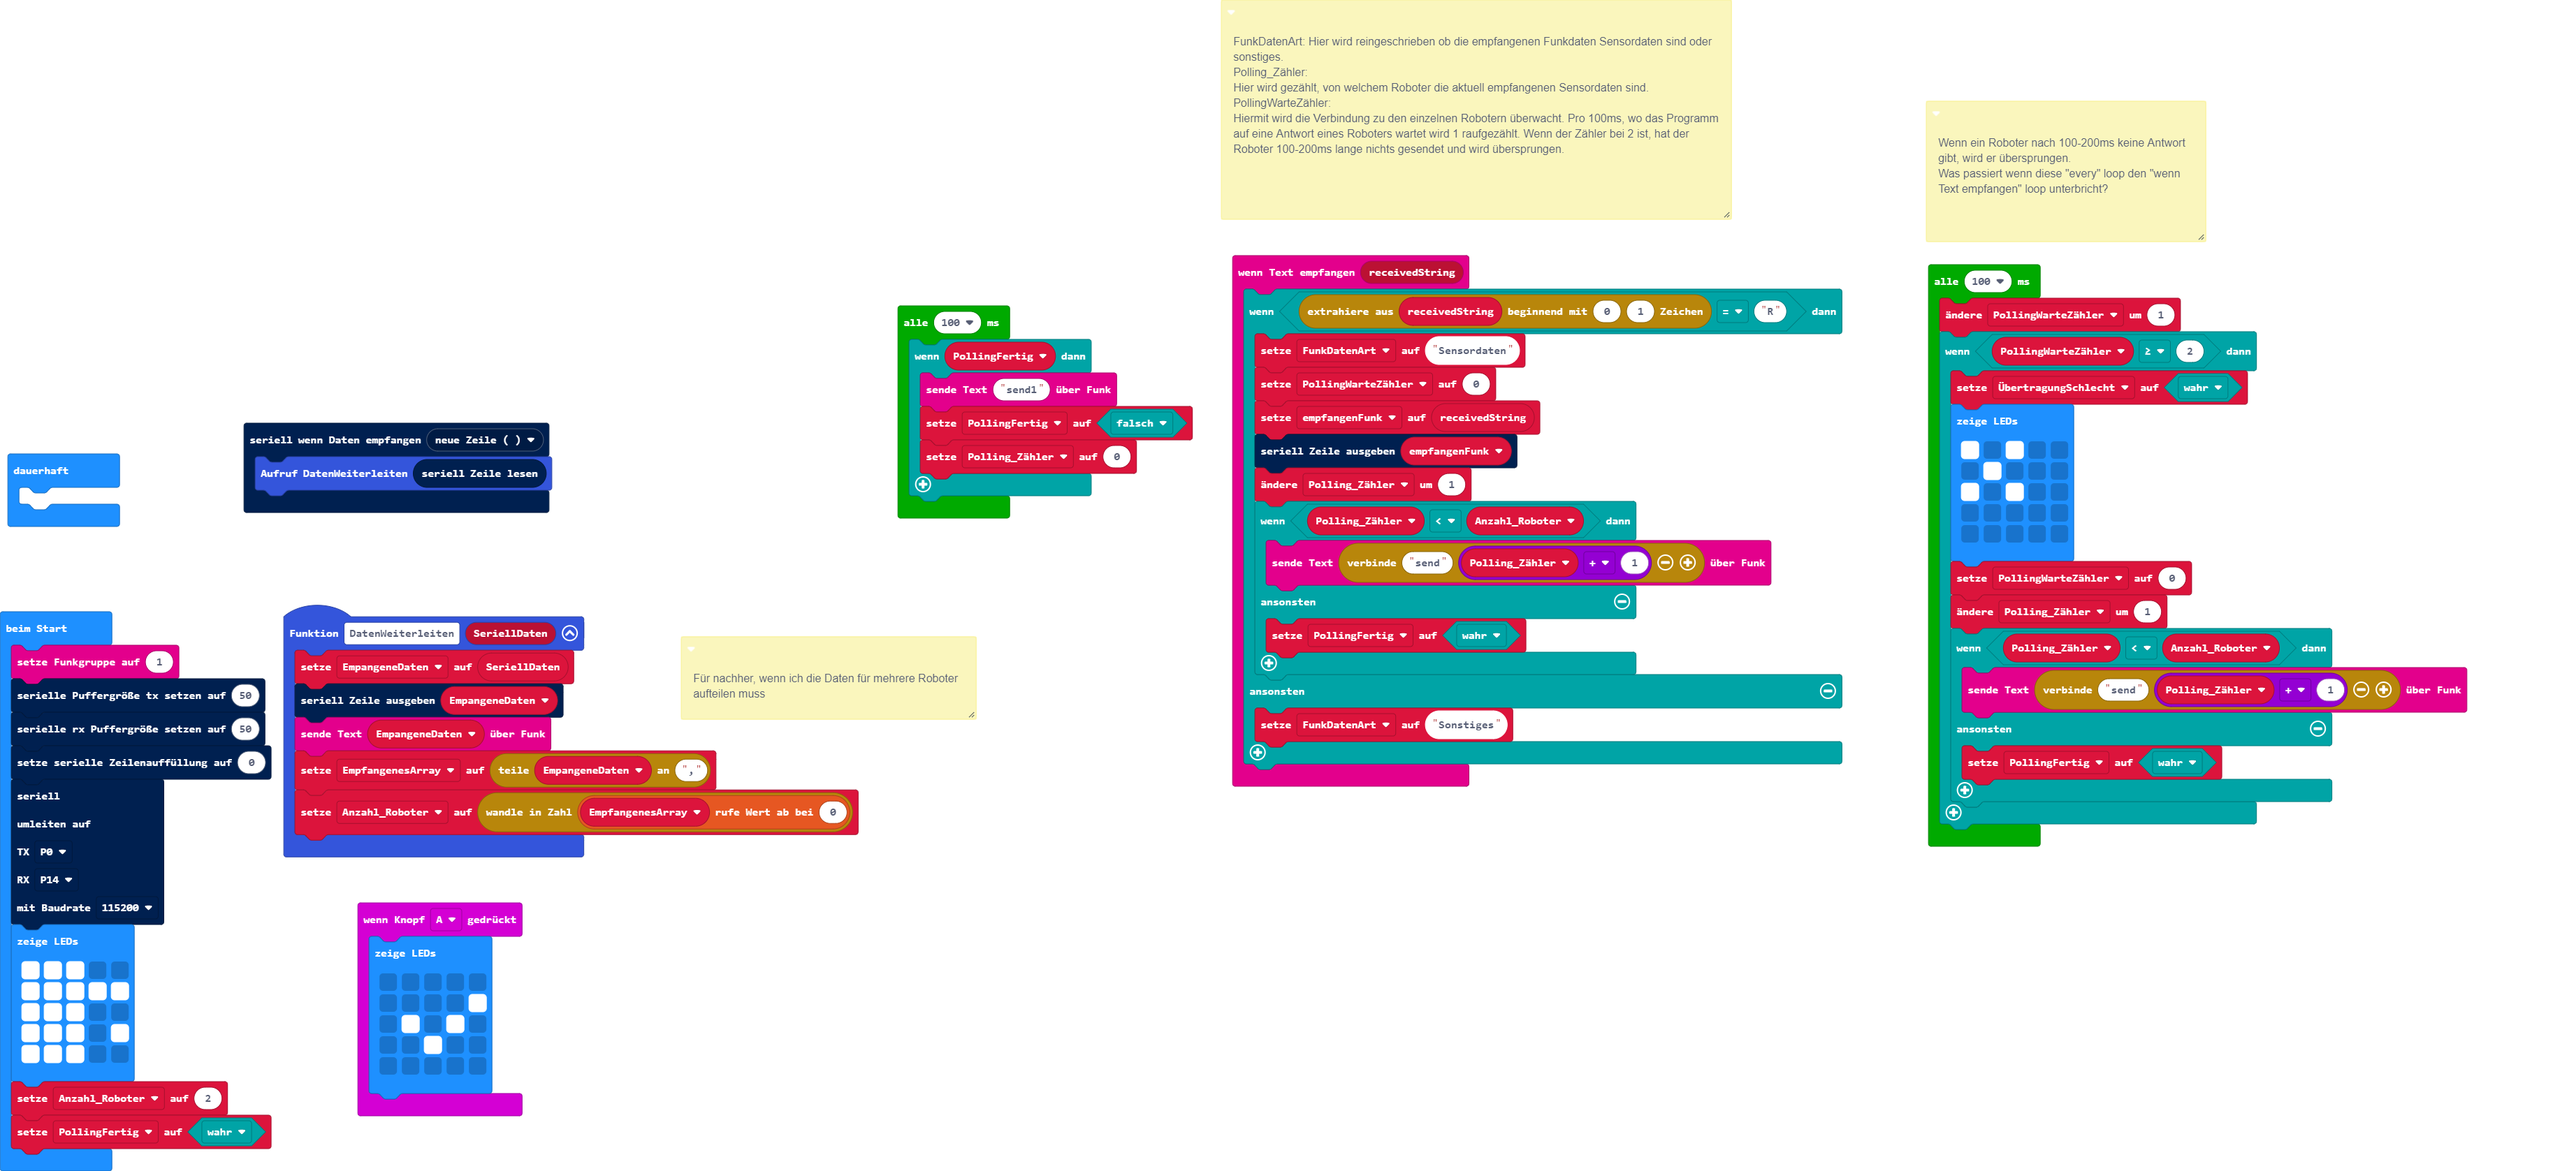
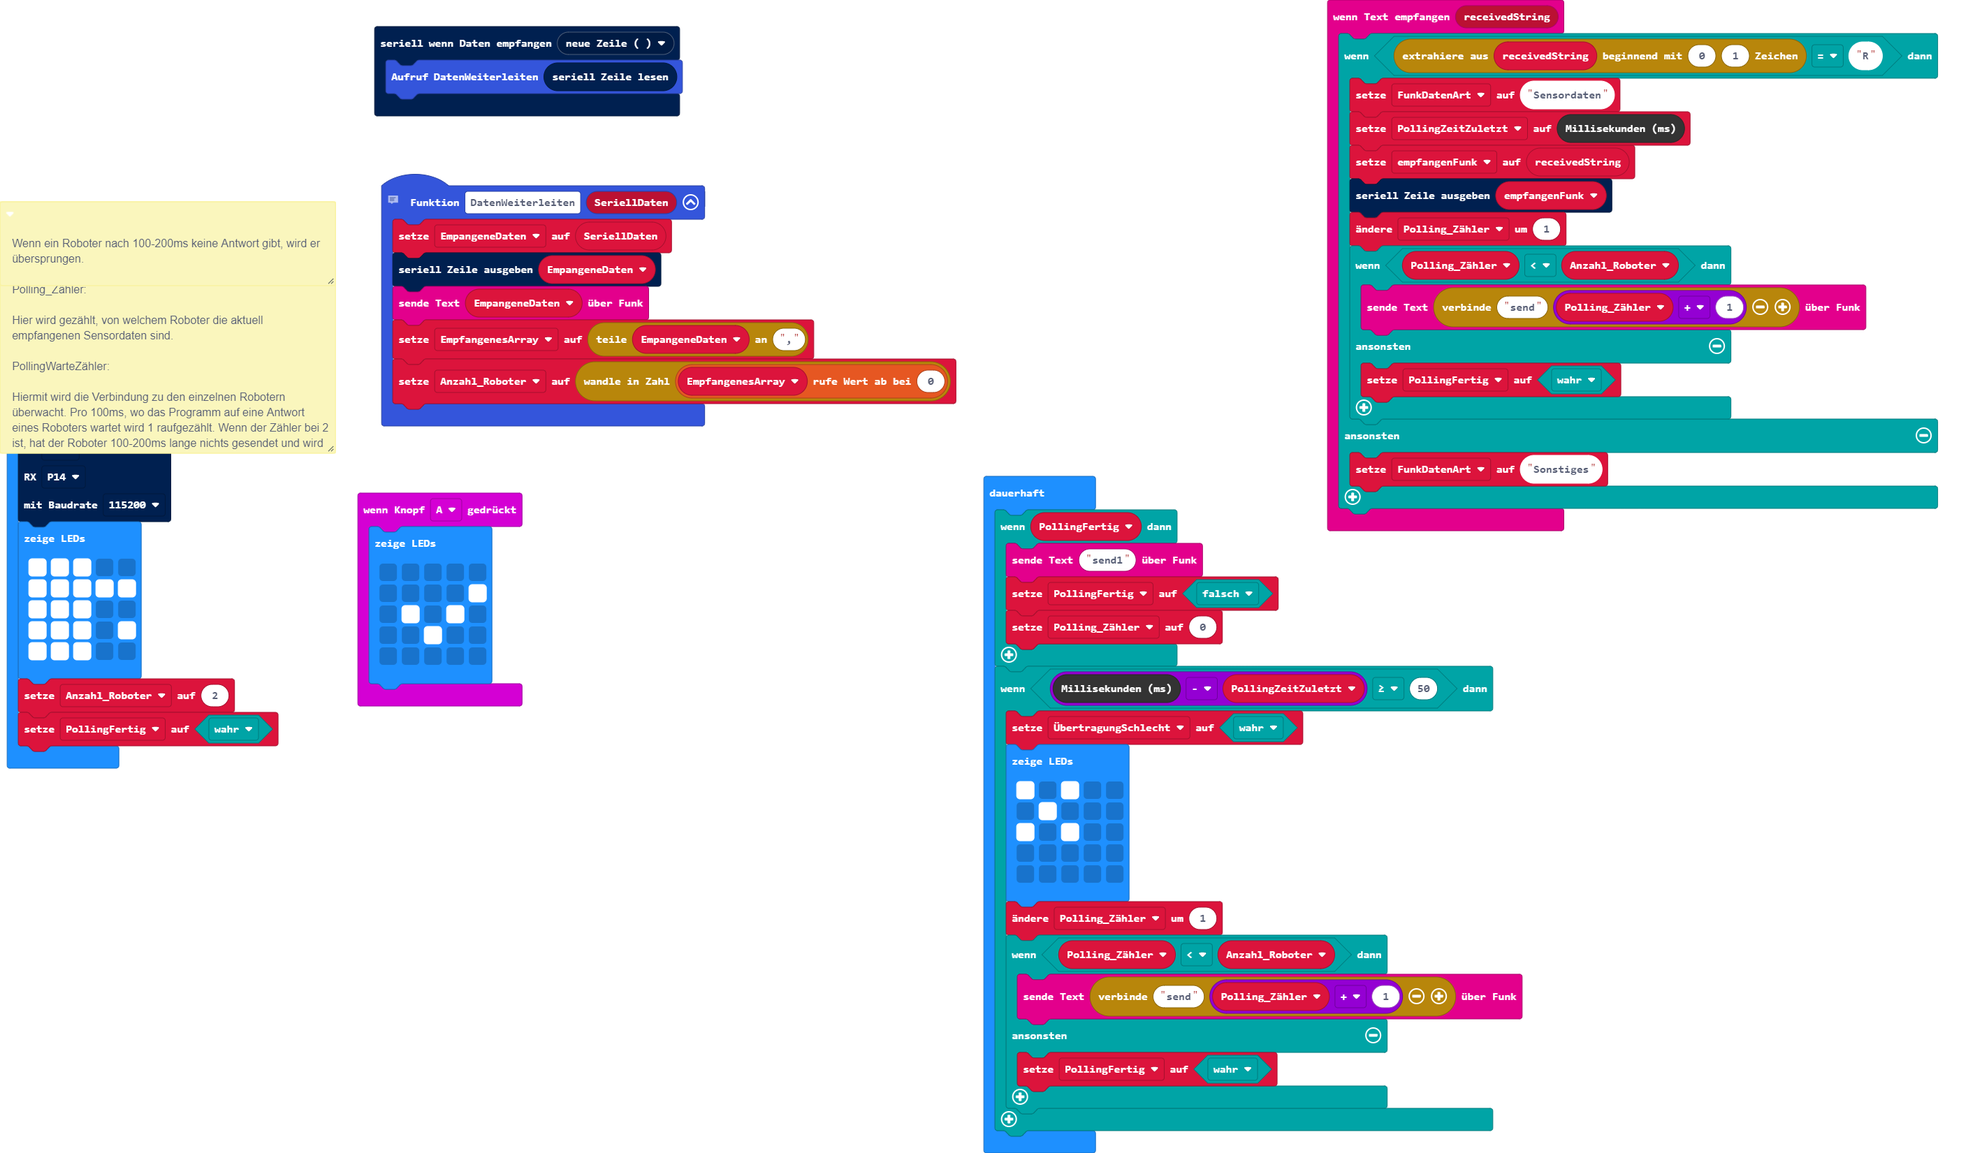
Aktualisiere pxt.json, main.blocks, main.ts

diff --git a/main.ts b/main.ts
@@ -1,22 +1,4 @@
-/**
- * FunkDatenArt: Hier wird reingeschrieben ob die empfangenen Funkdaten Sensordaten sind oder sonstiges.
- * 
- * Polling_Zähler:
- * 
- * Hier wird gezählt, von welchem Roboter die aktuell empfangenen Sensordaten sind.
- * 
- * PollingWarteZähler:
- * 
- * Hiermit wird die Verbindung zu den einzelnen Robotern überwacht. Pro 100ms, wo das Programm auf eine Antwort eines Roboters wartet wird 1 raufgezählt. Wenn der Zähler bei 2 ist, hat der Roboter 100-200ms lange nichts gesendet und wird übersprungen.
- */
-/**
- * Wenn ein Roboter nach 100-200ms keine Antwort gibt, wird er übersprungen.
- * 
- * Was passiert wenn diese "every" loop den "wenn Text empfangen" loop unterbricht?
- */
-/**
- * Für nachher, wenn ich die Daten für mehrere Roboter aufteilen muss
- */
+// Für nachher, wenn ich die Daten für mehrere Roboter aufteilen muss
 function DatenWeiterleiten (SeriellDaten: string) {
     EmpangeneDaten = SeriellDaten
     serial.writeLine(EmpangeneDaten)
@@ -39,7 +21,7 @@ serial.onDataReceived(serial.delimiters(Delimiters.NewLine), function () {
 radio.onReceivedString(function (receivedString) {
     if (receivedString.substr(0, 1) == "R") {
         FunkDatenArt = "Sensordaten"
-        PollingWarteZähler = 0
+        PollingZeitZuletzt = control.millis()
         empfangenFunk = receivedString
         serial.writeLine(empfangenFunk)
         Polling_Zähler += 1
@@ -52,10 +34,26 @@ radio.onReceivedString(function (receivedString) {
         FunkDatenArt = "Sonstiges"
     }
 })
+/**
+ * FunkDatenArt: Hier wird reingeschrieben ob die empfangenen Funkdaten Sensordaten sind oder sonstiges.
+ * 
+ * Polling_Zähler:
+ * 
+ * Hier wird gezählt, von welchem Roboter die aktuell empfangenen Sensordaten sind.
+ * 
+ * PollingWarteZähler:
+ * 
+ * Hiermit wird die Verbindung zu den einzelnen Robotern überwacht. Pro 100ms, wo das Programm auf eine Antwort eines Roboters wartet wird 1 raufgezählt. Wenn der Zähler bei 2 ist, hat der Roboter 100-200ms lange nichts gesendet und wird übersprungen.
+ */
+/**
+ * Wenn ein Roboter nach 100-200ms keine Antwort gibt, wird er übersprungen.
+ * 
+ * Was passiert wenn diese "every" loop den "wenn Text empfangen" loop unterbricht?
+ */
 let ÜbertragungSchlecht = false
 let Polling_Zähler = 0
 let empfangenFunk = ""
-let PollingWarteZähler = 0
+let PollingZeitZuletzt = 0
 let FunkDatenArt = ""
 let EmpfangenesArray: string[] = []
 let EmpangeneDaten = ""
@@ -80,18 +78,12 @@ basic.showLeds(`
 Anzahl_Roboter = 2
 PollingFertig = true
 basic.forever(function () {
-	
-})
-loops.everyInterval(100, function () {
     if (PollingFertig) {
         radio.sendString("send1")
         PollingFertig = false
         Polling_Zähler = 0
     }
-})
-loops.everyInterval(100, function () {
-    PollingWarteZähler += 1
-    if (PollingWarteZähler >= 2) {
+    if (control.millis() - PollingZeitZuletzt >= 50) {
         ÜbertragungSchlecht = true
         basic.showLeds(`
             # . # . .
@@ -100,7 +92,6 @@ loops.everyInterval(100, function () {
             . . . . .
             . . . . .
             `)
-        PollingWarteZähler = 0
         Polling_Zähler += 1
         if (Polling_Zähler < Anzahl_Roboter) {
             radio.sendString("send" + (Polling_Zähler + 1))
